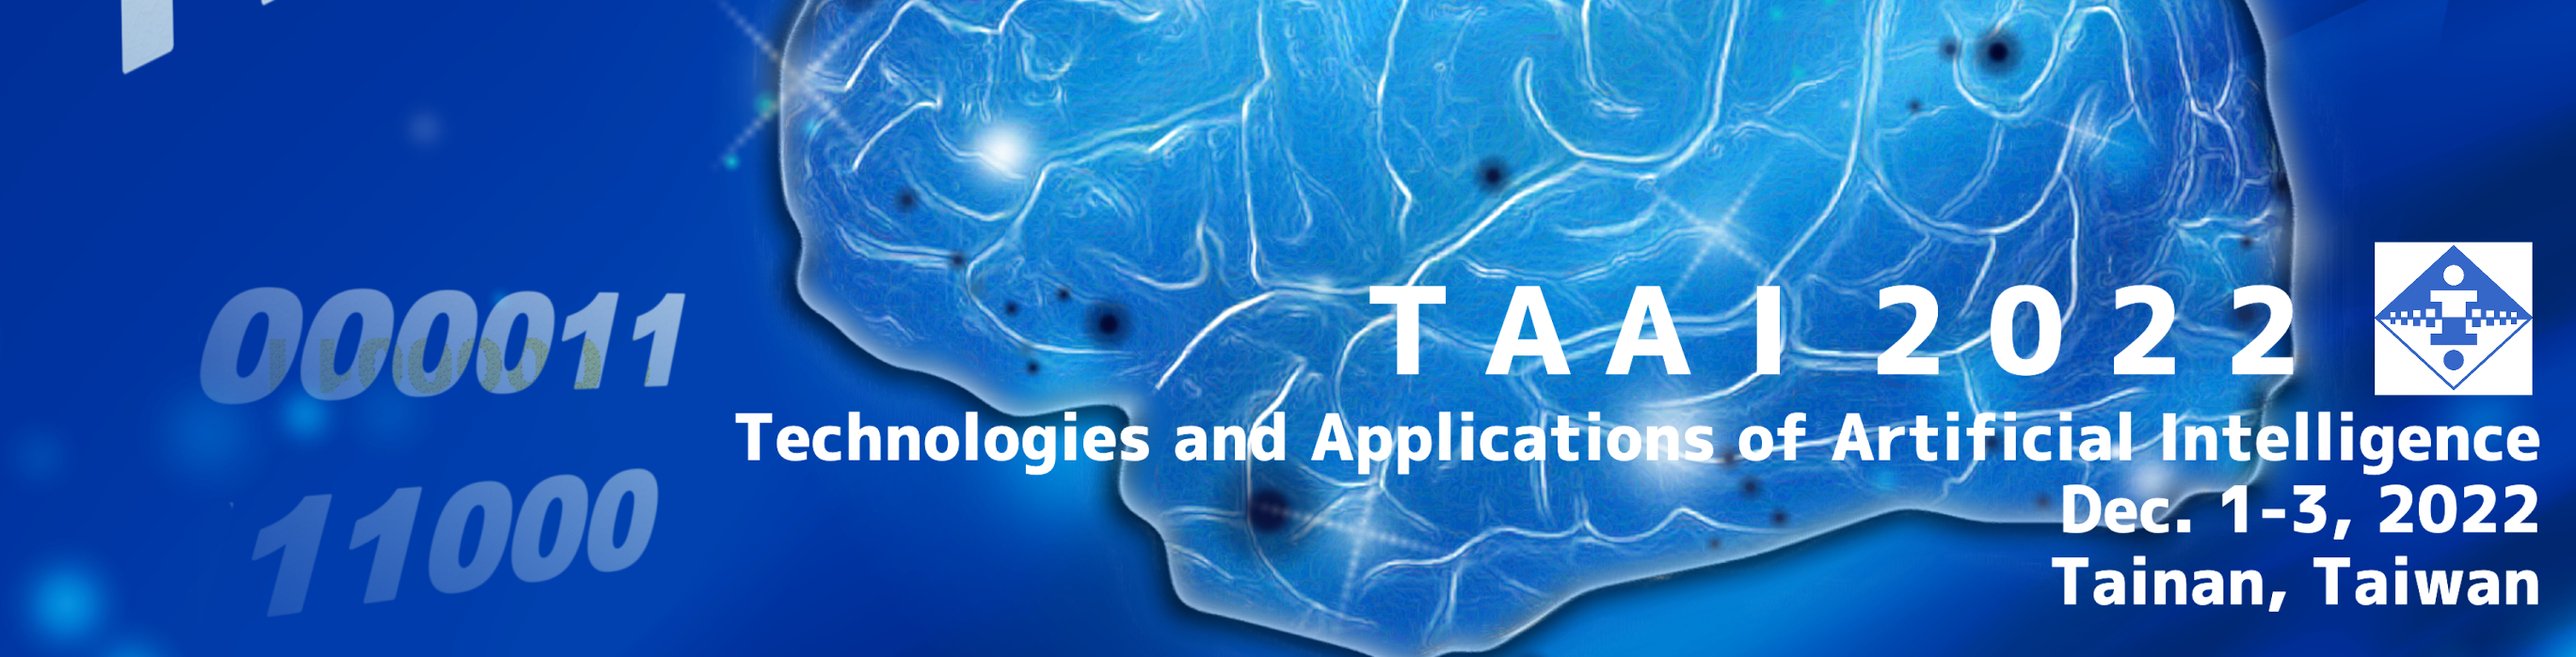
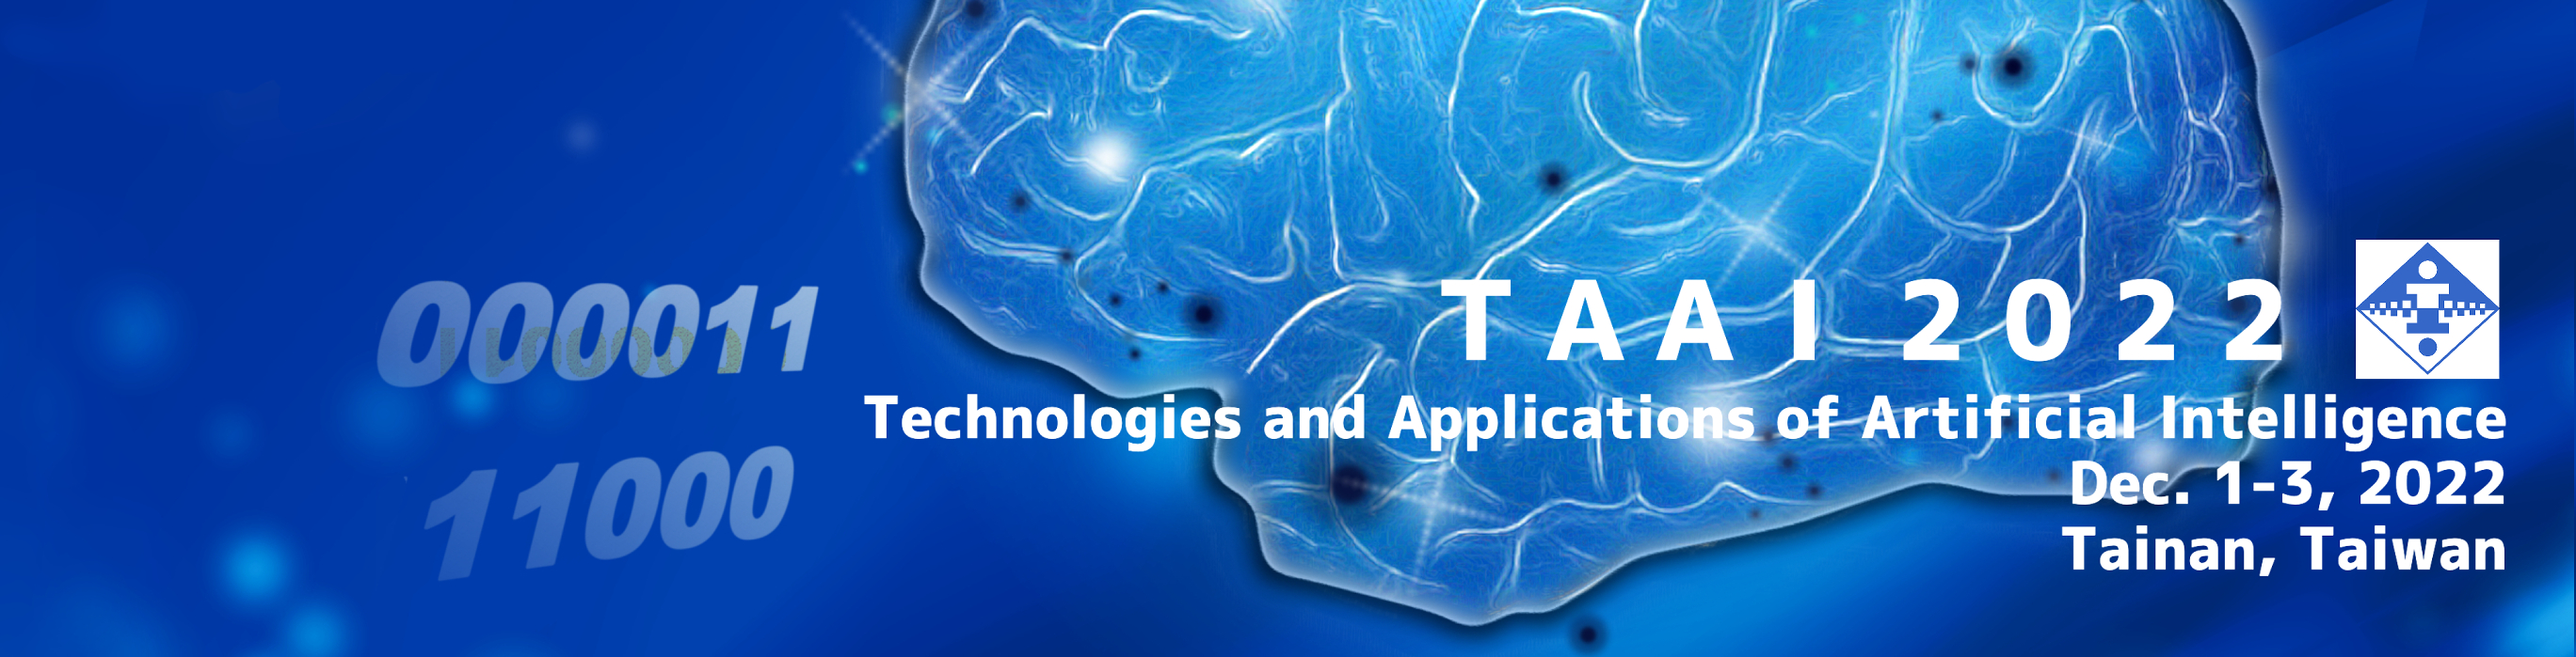
update index

diff --git a/index.html b/index.html
@@ -18,7 +18,7 @@
       <nav id="van" class="navbar navbar-expand-lg navbar-dark nav-nobg fixed-top" role="navigation" >
          <!--TAAI 2022 hosted by cyut *****************************************************TAAI 2022 hosted by cyut -->
          <a class="navbar-brand" href="index.html">
-         <img style="border-radius: 2px; padding:2px;width: 200px;background: #011844;margin-right: 30px; border:1px solid wheat; box-shadow: 2px 2px 5px wheat;" src="images/Logo.png" alt=""> 
+         <!-- <img style="border-radius: 2px; padding:2px;width: 200px;background: #011844;margin-right: 30px; border:1px solid wheat; box-shadow: 2px 2px 5px wheat;" src="images/Logo.png" alt="">  -->
          </a> 
          <button class="navbar-toggler" type="button" data-toggle="collapse" data-target="#navbarSupportedContent" aria-controls="navbarSupportedContent" aria-expanded="false" aria-label="Toggle navigation">
          <span class="navbar-toggler-icon"></span>
@@ -106,7 +106,7 @@
       </nav>
       <!--banner image **************************************************************************************************** banner image -->
       <div id="impadw" class="jumbotron-fluid" style="margin: auto; ">
-         <img id="banim" src="images/73008.jpg" class="img-fluid">	
+         <img id="banim" src="images/73208.jpg" class="img-fluid">	
       </div>
       <!--below is the content**************************************************************************************below is the content -->
       <div class="container-fluid">
@@ -163,9 +163,10 @@
                      <div   class="col-lg-5 "style="margin: auto; padding: 10px 10px;">
                         <a href="http://www.taai.org.tw/"><img src="images/taai1.png" class="img-fluid"></a>  
                      </div>
-                     <div   class="col-lg-5 "style="margin: auto; padding: 10px 10px;">
+                     <!-- 校名 -->
+                     <!-- <div   class="col-lg-5 "style="margin: auto; padding: 10px 10px;">
                         <a href="https://www.cyut.edu.tw/"><img width="600px" src="images/780902510.png" class="img-fluid"> </a> 
-                     </div>
+                     </div> -->
                   </div>
                   <hr>
                   <h1  style="margin: 15px 0; ">Co-organized by</h1>
@@ -186,30 +187,17 @@
                      <div   class="col-lg-12 "style="margin: auto; padding: 10px 10px;">
                         <a href="https://www.most.gov.tw/"><img width="400px" src="images/most.png" class="img-fluid">  </a> 
                      </div>
-                     <!--
-                        <div   class="col-lg-6 "style="margin: auto; padding: 10px 10px;">
-                          <a href="https://www.itri.org.tw/"><img width="100px" src="images/unknown.png" class="img-fluid">  </a> 
-                        </div>
-                        -->
                   </div>
                   <hr>
                   <h1  style="margin: 15px 0; ">Sponsors</h1>
                   <br>       
-                  <div class="row">
-                     <div   class="col-lg-12 "style="margin: auto; padding: 10px 10px;">
+                  <div class="row">                     
+                     <!-- <div   class="col-lg-12 "style="margin: auto; padding: 10px 10px;">
                         <a href="https://www.esunbank.com.tw/"><img style="border-radius: 20px; box-shadow: 2px,2px,4px,gray;" src="images/esan.png" class="img-fluid">  </a> 
-                     </div>
+                     </div> -->
                      <div   class="col-lg-12 "style="margin: auto; padding: 10px 10px;">
                         <a href="https://www.kdanmobile.com/zh-tw?utm_source=PR&utm_campaign=PR_TAAI_sponsor2022&utm_medium=TAAI"><img src="images/kdan.png" class="img-fluid">  </a> 
                      </div>
-                     <!--    <div   class="col-lg-3 "style="margin: auto; padding: 10px 10px;">
-                        <a href="https://www.itri.org.tw/"><img width="100px" src="images/unknown.png" class="img-fluid">  </a> 
-                        </div>
-                        <div   class="col-lg-3 "style="margin: auto; padding: 10px 0px;">
-                        <a href="https://www.itri.org.tw/"><img width="100px" src="images/unknown.png" class="img-fluid">  </a> 
-                        </div>
-                        </div>
-                        -->
                   </div>
                   <br>    
                   <div class="row">

diff --git a/cfp.html b/cfp.html
@@ -18,7 +18,7 @@
       <nav id="van" class="navbar navbar-expand-lg navbar-dark nav-nobg fixed-top" role="navigation" >
          <!--TAAI 2022 hosted by cyut *****************************************************TAAI 2022 hosted by cyut -->
          <a class="navbar-brand" href="index.html">
-         <img style="border-radius: 2px; padding:2px;width: 200px;background: #011844;margin-right: 30px; border:1px solid wheat; box-shadow: 2px 2px 5px wheat;" src="images/Logo.png" alt=""> 
+         <!-- <img style="border-radius: 2px; padding:2px;width: 200px;background: #011844;margin-right: 30px; border:1px solid wheat; box-shadow: 2px 2px 5px wheat;" src="images/Logo.png" alt="">  -->
          </a> 
          <button class="navbar-toggler" type="button" data-toggle="collapse" data-target="#navbarSupportedContent" aria-controls="navbarSupportedContent" aria-expanded="false" aria-label="Toggle navigation">
          <span class="navbar-toggler-icon"></span>
@@ -106,7 +106,7 @@
       </nav>
       <!--banner image **************************************************************************************************** banner image -->
       <div id="impadw" class="jumbotron-fluid" style="margin: auto; ">
-         <img id="banim" src="images/73008.jpg" class="img-fluid">	
+         <img id="banim" src="images/73208.jpg" class="img-fluid">	
       </div>
       <!--below is the content**************************************************************************************below is the content -->
       <div class="container-fluid">

diff --git a/AICUP.html b/AICUP.html
@@ -38,7 +38,7 @@
 <nav id="van" class="navbar navbar-expand-lg navbar-dark nav-nobg fixed-top" role="navigation" >
   <!--TAAI 2022 hosted by cyut *****************************************************TAAI 2022 hosted by cyut -->
 <a class="navbar-brand" href="index.html">
-  <img style="border-radius: 2px; padding:2px;width: 200px;background: #011844;margin-right: 30px; border:1px solid wheat; box-shadow: 2px 2px 5px wheat;" src="images/Logo.png" alt=""> 
+  <!-- <img style="border-radius: 2px; padding:2px;width: 200px;background: #011844;margin-right: 30px; border:1px solid wheat; box-shadow: 2px 2px 5px wheat;" src="images/Logo.png" alt="">  -->
 </a> 
 <button class="navbar-toggler" type="button" data-toggle="collapse" data-target="#navbarSupportedContent" aria-controls="navbarSupportedContent" aria-expanded="false" aria-label="Toggle navigation">
   <span class="navbar-toggler-icon"></span>
@@ -124,7 +124,7 @@
 </nav>
 <!--banner image **************************************************************************************************** banner image -->
     <div id="impadw" class="jumbotron-fluid" style="margin: auto; ">
-        <img id="banim" src="images/73008.jpg" class="img-fluid">	
+        <img id="banim" src="images/73208.jpg" class="img-fluid">	
     </div>
 <!--below is the content**************************************************************************************below is the content -->
     <div class="container-fluid">

diff --git a/banquet.html b/banquet.html
@@ -60,7 +60,7 @@
 <nav id="van" class="navbar navbar-expand-lg navbar-dark nav-nobg fixed-top" role="navigation" >
   <!--TAAI 2022 hosted by cyut *****************************************************TAAI 2022 hosted by cyut -->
 <a class="navbar-brand" href="index.html">
-  <img style="border-radius: 2px; padding:2px;width: 200px;background: #011844;margin-right: 30px; border:1px solid wheat; box-shadow: 2px 2px 5px wheat;" src="images/Logo.png" alt=""> 
+  <!-- <img style="border-radius: 2px; padding:2px;width: 200px;background: #011844;margin-right: 30px; border:1px solid wheat; box-shadow: 2px 2px 5px wheat;" src="images/Logo.png" alt="">  -->
 </a> 
 <button class="navbar-toggler" type="button" data-toggle="collapse" data-target="#navbarSupportedContent" aria-controls="navbarSupportedContent" aria-expanded="false" aria-label="Toggle navigation">
   <span class="navbar-toggler-icon"></span>
@@ -146,7 +146,7 @@
 </nav>
 <!--banner image **************************************************************************************************** banner image -->
     <div id="impadw" class="jumbotron-fluid" style="margin: auto; ">
-        <img id="banim" src="images/73008.jpg" class="img-fluid">	
+        <img id="banim" src="images/73208.jpg" class="img-fluid">	
     </div>
 <!--below is the content**************************************************************************************below is the content -->
     <div class="container-fluid">

diff --git a/call_sponsor.html b/call_sponsor.html
@@ -20,7 +20,7 @@
 <nav id="van" class="navbar navbar-expand-lg navbar-dark nav-nobg fixed-top" role="navigation" >
   <!--TAAI 2022 hosted by cyut *****************************************************TAAI 2022 hosted by cyut -->
 <a class="navbar-brand" href="index.html">
-  <img style="border-radius: 2px; padding:2px;width: 200px;background: #011844;margin-right: 30px; border:1px solid wheat; box-shadow: 2px 2px 5px wheat;" src="images/Logo.png" alt=""> 
+  <!-- <img style="border-radius: 2px; padding:2px;width: 200px;background: #011844;margin-right: 30px; border:1px solid wheat; box-shadow: 2px 2px 5px wheat;" src="images/Logo.png" alt="">  -->
 </a> 
 <button class="navbar-toggler" type="button" data-toggle="collapse" data-target="#navbarSupportedContent" aria-controls="navbarSupportedContent" aria-expanded="false" aria-label="Toggle navigation">
   <span class="navbar-toggler-icon"></span>
@@ -106,7 +106,7 @@
 </nav>
 <!--banner image **************************************************************************************************** banner image -->
     <div id="impadw" class="jumbotron-fluid" style="margin: auto; ">
-        <img id="banim" src="images/73008.jpg" class="img-fluid">	
+        <img id="banim" src="images/73208.jpg" class="img-fluid">	
     </div>
 <!--below is the content**************************************************************************************below is the content -->
     <div class="container-fluid">

diff --git a/dprogram.html b/dprogram.html
@@ -38,7 +38,7 @@
 <nav id="van" class="navbar navbar-expand-lg navbar-dark nav-nobg fixed-top" role="navigation" >
   <!--TAAI 2022 hosted by cyut *****************************************************TAAI 2022 hosted by cyut -->
 <a class="navbar-brand" href="index.html">
-  <img style="border-radius: 2px; padding:2px;width: 200px;background: #011844;margin-right: 30px; border:1px solid wheat; box-shadow: 2px 2px 5px wheat;" src="images/Logo.png" alt=""> 
+  <!-- <img style="border-radius: 2px; padding:2px;width: 200px;background: #011844;margin-right: 30px; border:1px solid wheat; box-shadow: 2px 2px 5px wheat;" src="images/Logo.png" alt="">  -->
 </a> 
 <button class="navbar-toggler" type="button" data-toggle="collapse" data-target="#navbarSupportedContent" aria-controls="navbarSupportedContent" aria-expanded="false" aria-label="Toggle navigation">
   <span class="navbar-toggler-icon"></span>
@@ -124,7 +124,7 @@
 </nav>
 <!--banner image **************************************************************************************************** banner image -->
     <div id="impadw" class="jumbotron-fluid" style="margin: auto; ">
-        <img id="banim" src="images/73008.jpg" class="img-fluid">	
+        <img id="banim" src="images/73208.jpg" class="img-fluid">	
     </div>
 <!--below is the content**************************************************************************************below is the content -->
     <div class="container-fluid">

diff --git a/etop.html b/etop.html
@@ -38,7 +38,7 @@
 <nav id="van" class="navbar navbar-expand-lg navbar-dark nav-nobg fixed-top" role="navigation" >
   <!--TAAI 2022 hosted by cyut *****************************************************TAAI 2022 hosted by cyut -->
 <a class="navbar-brand" href="index.html">
-  <img style="border-radius: 2px; padding:2px;width: 200px;background: #011844;margin-right: 30px; border:1px solid wheat; box-shadow: 2px 2px 5px wheat;" src="images/Logo.png" alt=""> 
+  <!-- <img style="border-radius: 2px; padding:2px;width: 200px;background: #011844;margin-right: 30px; border:1px solid wheat; box-shadow: 2px 2px 5px wheat;" src="images/Logo.png" alt="">  -->
 </a> 
 <button class="navbar-toggler" type="button" data-toggle="collapse" data-target="#navbarSupportedContent" aria-controls="navbarSupportedContent" aria-expanded="false" aria-label="Toggle navigation">
   <span class="navbar-toggler-icon"></span>
@@ -124,7 +124,7 @@
 </nav>
 <!--banner image **************************************************************************************************** banner image -->
     <div id="impadw" class="jumbotron-fluid" style="margin: auto; ">
-        <img id="banim" src="images/73008.jpg" class="img-fluid">	
+        <img id="banim" src="images/73208.jpg" class="img-fluid">	
     </div>
 <!--below is the content**************************************************************************************below is the content -->
     <div class="container-fluid">

diff --git a/gameM.html b/gameM.html
@@ -20,7 +20,7 @@
 <nav id="van" class="navbar navbar-expand-lg navbar-dark nav-nobg fixed-top" role="navigation" >
   <!--TAAI 2022 hosted by cyut *****************************************************TAAI 2022 hosted by cyut -->
 <a class="navbar-brand" href="index.html">
-  <img style="border-radius: 2px; padding:2px;width: 200px;background: #011844;margin-right: 30px; border:1px solid wheat; box-shadow: 2px 2px 5px wheat;" src="images/Logo.png" alt=""> 
+  <!-- <img style="border-radius: 2px; padding:2px;width: 200px;background: #011844;margin-right: 30px; border:1px solid wheat; box-shadow: 2px 2px 5px wheat;" src="images/Logo.png" alt="">  -->
 </a> 
 <button class="navbar-toggler" type="button" data-toggle="collapse" data-target="#navbarSupportedContent" aria-controls="navbarSupportedContent" aria-expanded="false" aria-label="Toggle navigation">
   <span class="navbar-toggler-icon"></span>
@@ -106,7 +106,7 @@
 </nav>
 <!--banner image **************************************************************************************************** banner image -->
     <div id="impadw" class="jumbotron-fluid" style="margin: auto; ">
-        <img id="banim" src="images/73008.jpg" class="img-fluid">	
+        <img id="banim" src="images/73208.jpg" class="img-fluid">	
     </div>
 <!--below is the content**************************************************************************************below is the content -->
     <div class="container-fluid">

diff --git a/imdate.html b/imdate.html
@@ -20,7 +20,7 @@
 <nav id="van" class="navbar navbar-expand-lg navbar-dark nav-nobg fixed-top" role="navigation" >
   <!--TAAI 2022 hosted by cyut *****************************************************TAAI 2022 hosted by cyut -->
 <a class="navbar-brand" href="index.html">
-  <img style="border-radius: 2px; padding:2px;width: 200px;background: #011844;margin-right: 30px; border:1px solid wheat; box-shadow: 2px 2px 5px wheat;" src="images/Logo.png" alt=""> 
+  <!-- <img style="border-radius: 2px; padding:2px;width: 200px;background: #011844;margin-right: 30px; border:1px solid wheat; box-shadow: 2px 2px 5px wheat;" src="images/Logo.png" alt="">  -->
 </a> 
 <button class="navbar-toggler" type="button" data-toggle="collapse" data-target="#navbarSupportedContent" aria-controls="navbarSupportedContent" aria-expanded="false" aria-label="Toggle navigation">
   <span class="navbar-toggler-icon"></span>
@@ -106,7 +106,7 @@
 </nav>
 <!--banner image **************************************************************************************************** banner image -->
     <div id="impadw" class="jumbotron-fluid" style="margin: auto; ">
-        <img id="banim" src="images/73008.jpg" class="img-fluid">	
+        <img id="banim" src="images/73208.jpg" class="img-fluid">	
     </div>
 <!--below is the content**************************************************************************************below is the content -->
     <div class="container-fluid">

diff --git a/iprogram.html b/iprogram.html
@@ -39,7 +39,7 @@
 <nav id="van" class="navbar navbar-expand-lg navbar-dark nav-nobg fixed-top" role="navigation" >
   <!--TAAI 2022 hosted by cyut *****************************************************TAAI 2022 hosted by cyut -->
 <a class="navbar-brand" href="index.html">
-  <img style="border-radius: 2px; padding:2px;width: 200px;background: #011844;margin-right: 30px; border:1px solid wheat; box-shadow: 2px 2px 5px wheat;" src="images/Logo.png" alt=""> 
+  <!-- <img style="border-radius: 2px; padding:2px;width: 200px;background: #011844;margin-right: 30px; border:1px solid wheat; box-shadow: 2px 2px 5px wheat;" src="images/Logo.png" alt="">  -->
 </a> 
 <button class="navbar-toggler" type="button" data-toggle="collapse" data-target="#navbarSupportedContent" aria-controls="navbarSupportedContent" aria-expanded="false" aria-label="Toggle navigation">
   <span class="navbar-toggler-icon"></span>
@@ -125,7 +125,7 @@
 </nav>
 <!--banner image **************************************************************************************************** banner image -->
     <div id="impadw" class="jumbotron-fluid" style="margin: auto; ">
-        <img id="banim" src="images/73008.jpg" class="img-fluid">	
+        <img id="banim" src="images/73208.jpg" class="img-fluid">	
     </div>
 <!--below is the content**************************************************************************************below is the content -->
     <div class="container-fluid">

diff --git a/keynote.html b/keynote.html
@@ -20,7 +20,7 @@
 <nav id="van" class="navbar navbar-expand-lg navbar-dark nav-nobg fixed-top" role="navigation" >
   <!--TAAI 2022 hosted by cyut *****************************************************TAAI 2022 hosted by cyut -->
 <a class="navbar-brand" href="index.html">
-  <img style="border-radius: 2px; padding:2px;width: 200px;background: #011844;margin-right: 30px; border:1px solid wheat; box-shadow: 2px 2px 5px wheat;" src="images/Logo.png" alt=""> 
+  <!-- <img style="border-radius: 2px; padding:2px;width: 200px;background: #011844;margin-right: 30px; border:1px solid wheat; box-shadow: 2px 2px 5px wheat;" src="images/Logo.png" alt="">  -->
 </a> 
 <button class="navbar-toggler" type="button" data-toggle="collapse" data-target="#navbarSupportedContent" aria-controls="navbarSupportedContent" aria-expanded="false" aria-label="Toggle navigation">
   <span class="navbar-toggler-icon"></span>
@@ -106,7 +106,7 @@
 </nav>
 <!--banner image **************************************************************************************************** banner image -->
     <div id="impadw" class="jumbotron-fluid" style="margin: auto; ">
-        <img id="banim" src="images/73008.jpg" class="img-fluid">	
+        <img id="banim" src="images/73208.jpg" class="img-fluid">	
     </div>
 <!--below is the content**************************************************************************************below is the content -->
     <div class="container-fluid">

diff --git a/latestnews.html b/latestnews.html
@@ -25,7 +25,7 @@
 <nav id="van" class="navbar navbar-expand-lg navbar-dark nav-nobg fixed-top" role="navigation" >
   <!--TAAI 2022 hosted by cyut *****************************************************TAAI 2022 hosted by cyut -->
 <a class="navbar-brand" href="index.html">
-  <img style="border-radius: 2px; padding:2px;width: 200px;background: #011844;margin-right: 30px; border:1px solid wheat; box-shadow: 2px 2px 5px wheat;" src="images/Logo.png" alt=""> 
+  <!-- <img style="border-radius: 2px; padding:2px;width: 200px;background: #011844;margin-right: 30px; border:1px solid wheat; box-shadow: 2px 2px 5px wheat;" src="images/Logo.png" alt="">  -->
 </a> 
 <button class="navbar-toggler" type="button" data-toggle="collapse" data-target="#navbarSupportedContent" aria-controls="navbarSupportedContent" aria-expanded="false" aria-label="Toggle navigation">
   <span class="navbar-toggler-icon"></span>
@@ -111,7 +111,7 @@
 </nav>
 <!--banner image **************************************************************************************************** banner image -->
     <div id="impadw" class="jumbotron-fluid" style="margin: auto; ">
-        <img id="banim" src="images/73008.jpg" class="img-fluid">	
+        <img id="banim" src="images/73208.jpg" class="img-fluid">	
     </div>
 <!--below is the content**************************************************************************************below is the content -->
     <div class="container-fluid">
